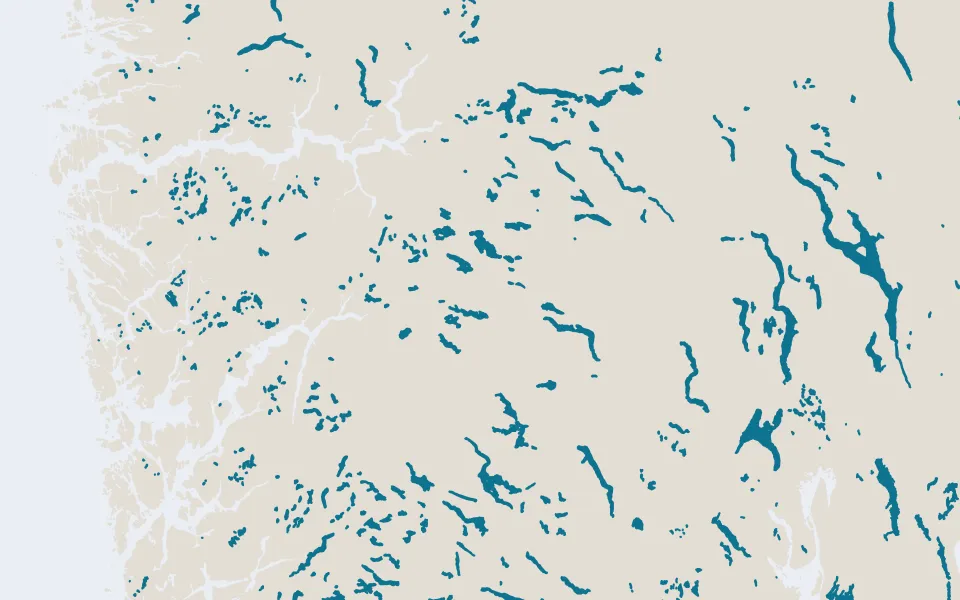
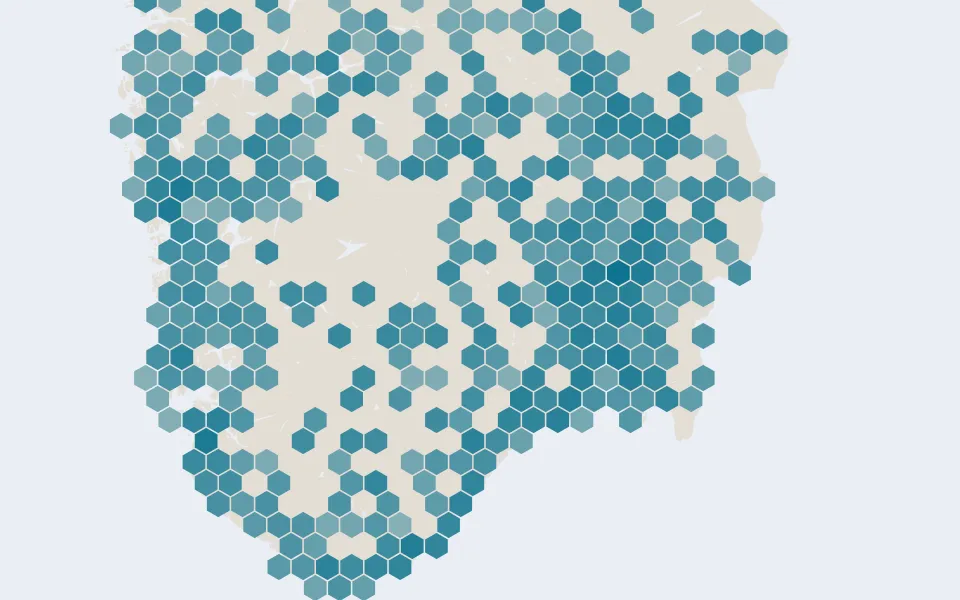
Energi card: charging capacity as a hex mosaic instead of reservoirs
The Energi theme card now shows the chargers: every NOBIL station in
Sør-Norge binned into 14px hexagons, tinted by installed capacity (max kW
× charge points, log scale) in the /energikart hydro cyan. Oslo, Bergen
and Stavanger come out dark, the E18/E6/E39 corridors show between them,
and the mountain plateau stays bare.

Hexagons rather than dots so it isn't a second dot map next to Samfunn;
14px is the smallest size that still reads as a mosaic at card width
(7px blurred into dots). A minimum-spanning-tree "network" and a spike
map were tried and read as noise at card size.

Only energi.webp changes; the other six pictures are byte-identical.

Claude-Session: https://claude.ai/code/session_01RJcKeyYoRbXBDfcXdGm554

diff --git a/src/app/page.tsx b/src/app/page.tsx
@@ -15,7 +15,7 @@ import thumbNatur from "@/assets/thumbs/natur.webp";
 
 // Each theme card gets its own texture (build-time art, scripts/build-thumbs.mjs)
 // so the row doesn't read as three more maps after the strip above:
-// schools and barnehager, the hydro reservoirs, and verne share + cabins.
+// schools and barnehager, charging capacity as hexagons, and verne share + cabins.
 const categories = [
   {
     href: "/samfunn",

diff --git a/CLAUDE.md b/CLAUDE.md
@@ -20,7 +20,7 @@ A portfolio project showcasing Norwegian open geodata on interactive maps. Built
 
 ```
 src/app/
-  page.tsx              — Landing page: photo hero (Lofoten banner, "Datakart" as H1, kommune search), then stacked section headings (eyebrow above one bold sentence, left-aligned with the cards), "Mest populært" image cards (Høydekart first, then Boligpriser, Stedsprofil, Valgkart — build-time art + one real fact each; no Energikart, the Energi theme card already leads there) and the three category cards (build-time art too, one texture each: schools/barnehager dots / reservoirs / verne + hytter). Every number on the data cards comes from `src/lib/home-facts.ts` — never type a count into them (the two counts in "Om prosjektet" are still hand-typed and due for their own pass). A gradient/promise-headline hero was tried in Oct 2026 and reverted: a dark hero needs the whole page to follow, and the off-white sections below didn't
+  page.tsx              — Landing page: photo hero (Lofoten banner, "Datakart" as H1, kommune search), then stacked section headings (eyebrow above one bold sentence, left-aligned with the cards), "Mest populært" image cards (Høydekart first, then Boligpriser, Stedsprofil, Valgkart — build-time art + one real fact each; no Energikart, the Energi theme card already leads there) and the three category cards (build-time art too, one texture each: schools/barnehager dots / charging-capacity hexagons / verne + hytter). Every number on the data cards comes from `src/lib/home-facts.ts` — never type a count into them (the two counts in "Om prosjektet" are still hand-typed and due for their own pass). A gradient/promise-headline hero was tried in Oct 2026 and reverted: a dark hero needs the whole page to follow, and the off-white sections below didn't
   not-found.tsx         — 404 page (Norwegian)
   lading/page.tsx       — Charging stations map
   hytter/page.tsx       — Tourist cabins map
@@ -119,7 +119,7 @@ scripts/
   fetch-health.mjs      — Build-time: Overpass query (scoped to Norway via `area["ISO3166-1"="NO"]`) for `amenity=hospital` and `amenity=clinic`, classifies into sykehus / legevakt / privatklinikker → public/data/health.json
   fetch-valg.mjs        — Build-time: fetches Stortingsvalg 2025/2021 + Kommunestyrevalg 2023/2019 from valgresultat.no (Valgdirektoratet). Remaps pre-2024 kommunenummer to current geometry via fylke-prefix table + name normalization (Sami/Kven secondary names, "Aurskog-Høland" whitespace, "Nes, Buskerud"→Nesbyen rename) → public/data/valg/{type}-{year}.json + index.json manifest
   build-kommune-profiles.mjs — Build-time: composes SSB population/income/bolig/vern/fastlege (12005) + kommunale gebyrer (12842) + eiendomsskatt (14674) + eierstatus (14891) + boligtyper (06265) + utdanningsnivå (09429) + nasjonale prøver (12255) + NVE plants + UDIR schools/barnehager + valg results (latest st + ko) + static files via point-in-polygon and kommunenummer grouping into one profile per kommune → public/data/kommune-profiles.json + public/data/fastlege.json + public/data/kostnader.json. Also calls `generateSnapshot()` from `generate-snapshot.mjs` for each profile so the 3-sentence narrative is baked into the output JSON.
-  build-thumbs.mjs      — `npm run thumbs`. Draws the landing-page card pictures as SVG, rasterised with sharp → src/assets/thumbs/*.webp (committed). Mest populært: Sør-Norge in one shared 16:10 frame (`hoydekart` = terrain lines — Unknown Pleasures-style ridgelines raised by real elevation from scripts/data/terrain.png, Bergen coast to the Swedish border, ^1.5 so the lowlands stay flat; plus valg choropleth, bolig bubbles, stedsprofil population tints). Theme cards, zoomed in, one texture each so they don't read as more copies of those maps: `samfunn` = every school (brand blue, sized by pupils) and barnehage around Oslofjorden, `energi` = every NVE reservoir around Sognefjorden–Hallingdal, `natur` = verne share + turisthytter around Jotunheimen (cabins point-in-polygon filtered — cabins.json's Overpass bbox reaches into Sweden/Finland). Zoomed frames draw full-res kommuner.geojson. No network, no tiles; rerun after a data refresh. Imports partyFill from src/lib/party-colors.ts (Node type-stripping)
+  build-thumbs.mjs      — `npm run thumbs`. Draws the landing-page card pictures as SVG, rasterised with sharp → src/assets/thumbs/*.webp (committed). Mest populært: Sør-Norge in one shared 16:10 frame (`hoydekart` = terrain lines — Unknown Pleasures-style ridgelines raised by real elevation from scripts/data/terrain.png, Bergen coast to the Swedish border, ^1.5 so the lowlands stay flat; plus valg choropleth, bolig bubbles, stedsprofil population tints). Theme cards, one texture each so they don't read as more copies of those maps: `samfunn` = every school (brand blue, sized by pupils) and barnehage around Oslofjorden, `energi` = every NOBIL charger in Sør-Norge binned into 14px hexagons tinted by installed capacity (max kW × charge points, log scale, hydro cyan — hexes so it isn't a second dot map next to Samfunn), `natur` = verne share + turisthytter around Jotunheimen (cabins point-in-polygon filtered — cabins.json's Overpass bbox reaches into Sweden/Finland). Zoomed frames draw full-res kommuner.geojson. No network, no tiles; rerun after a data refresh. Imports partyFill from src/lib/party-colors.ts (Node type-stripping)
   fetch-terrain.mjs     — One-off, NOT in prebuild (terrain doesn't change). Downloads Mapzen Terrain Tiles (AWS Open Data, terrarium z8; Norway's data is Kartverket's DTM) for Sør-Norge, resamples to a ~1 km lat/lon grid → scripts/data/terrain.png (8-bit grey, 1 level = 10 m, sea clamped to 0) + terrain.json (bounds/size/scale). Committed; only build-thumbs reads it. Credited on /kilder
   generate-snapshot.mjs — Pure (no fetches) helper imported by build-kommune-profiles.mjs. Takes a profile + rank totals and returns a `string[]` of 3 sentences: rule-based notability scoring picks the top 3 distinct themes from ~13 candidates (bolig / gebyr / income / vern / hytter / sykehus / fastlege / skoler / nasjonale prøver / demografi-eier / demografi-boliger / demografi-utdanning / geografisk filler). Templates are deliberately factual — never LLM-generated.
 
